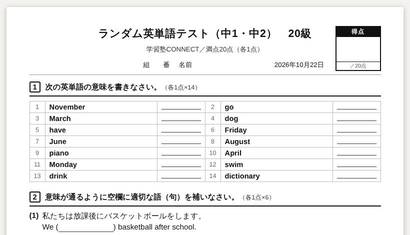
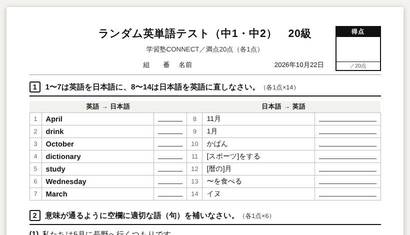
ランダム英単語テスト（中3・中1中2）大問1を英→日・日→英の半分ずつに
1〜7は英語→日本語、8〜14は日本語→英語。解答ページも同じ並びで、日→英の答えは英単語を表示。

Claude-Session: https://claude.ai/code/session_0195v6oVe8CzGfCEmgC7YF48

diff --git a/vocab-test-g12.html b/vocab-test-g12.html
@@ -99,6 +99,8 @@
   table.wordtable td.wnum { width: 22px; text-align: center; color: #666; font-size: 9.5pt; }
   table.wordtable td.wword { width: 32%; font-weight: bold; }
   table.wordtable td.wmeaning { }
+  table.wordtable th.wdir { font-size: 9.5pt; font-weight: bold; background: #F3F1EC; padding: 3px 6px; text-align: center; letter-spacing: .05em; }
+  table.wordtable td.jpm { font-weight: normal; font-size: 10.5pt; }
   .blankline { display: inline-block; min-width: 100%; border-bottom: 1px solid #333; height: 12px; }
 
   /* 大問2: 文章完成 */
@@ -211,23 +213,25 @@
   function buildWordSection(levels, num){
     var pool = poolAcross(DATA.words, levels);
     var picked = pick(pool, num);
-    // pad to even number for 2-column layout
-    if (picked.length % 2 === 1) picked = picked.slice(0, picked.length - 1);
-    var rowsHtml = '';
-    var ansRowsHtml = '';
-    for (var i = 0; i < picked.length; i += 2) {
-      var a = picked[i], b = picked[i+1];
+    // 前半：英語→日本語、後半：日本語→英語（半分ずつ）
+    var half = Math.floor(picked.length / 2);
+    var ej = picked.slice(0, half), je = picked.slice(half, half * 2);
+    var rowsHtml = '<tr><th colspan="3" class="wdir">英語 → 日本語</th><th colspan="3" class="wdir">日本語 → 英語</th></tr>';
+    var ansRowsHtml = rowsHtml;
+    for (var i = 0; i < half; i++) {
+      var a = ej[i], b = je[i];
       rowsHtml += '<tr>' +
         '<td class="wnum">' + (i+1) + '</td><td class="wword en">' + esc(a.w) + '</td><td class="wmeaning"><span class="blankline"></span></td>' +
-        '<td class="wnum">' + (i+2) + '</td><td class="wword en">' + esc(b.w) + '</td><td class="wmeaning"><span class="blankline"></span></td>' +
+        '<td class="wnum">' + (half+i+1) + '</td><td class="wword jpm">' + esc(b.m) + '</td><td class="wmeaning"><span class="blankline"></span></td>' +
         '</tr>';
       ansRowsHtml += '<tr>' +
         '<td class="wnum">' + (i+1) + '</td><td class="wword en">' + esc(a.w) + '</td><td class="wmeaning"><span class="k">' + esc(a.m) + '</span></td>' +
-        '<td class="wnum">' + (i+2) + '</td><td class="wword en">' + esc(b.w) + '</td><td class="wmeaning"><span class="k">' + esc(b.m) + '</span></td>' +
+        '<td class="wnum">' + (half+i+1) + '</td><td class="wword jpm">' + esc(b.m) + '</td><td class="wmeaning en"><span class="k">' + esc(b.w) + '</span></td>' +
         '</tr>';
     }
     return {
-      count: picked.length,
+      count: half * 2,
+      half: half,
       q: '<table class="wordtable"><tbody>' + rowsHtml + '</tbody></table>',
       a: '<table class="wordtable"><tbody>' + ansRowsHtml + '</tbody></table>'
     };
@@ -320,7 +324,7 @@
     html += '<div class="namebox"><span>組　　番</span><span>名前　　　　　　　　　　　</span><span>' + todayStr() + '</span></div>';
 
     html += '<div class="q">';
-    html += '<div class="qh"><span class="num">1</span><span class="inst">次の英単語の意味を書きなさい。<span class="pts">（各1点×' + wordSec.count + '）</span></span></div>';
+    html += '<div class="qh"><span class="num">1</span><span class="inst">1〜' + wordSec.half + 'は英語を日本語に、' + (wordSec.half + 1) + '〜' + wordSec.count + 'は日本語を英語に直しなさい。<span class="pts">（各1点×' + wordSec.count + '）</span></span></div>';
     html += wordSec.q;
     html += '</div>';
 
@@ -337,9 +341,9 @@
     html += '<div class="sub">ランダム英単語テスト（中1・中2）　' + esc(label) + '／配点：大問1（' + wordSec.count + '点）＋大問2（' + sentSec.count + '点）＝計' + total + '点</div>';
 
     html += '<div class="memo"><div class="t">■ 出題範囲メモ</div>';
-    html += 'CONNECT単語帳「' + esc(label) + '」の単語・例文リストからランダム抽出して作成。大問1は単語→意味、大問2は英日・和英の空欄補充（文脈から適切な語を判断）。</div>';
+    html += 'CONNECT単語帳「' + esc(label) + '」の単語・例文リストからランダム抽出して作成。大問1は前半が英語→日本語、後半が日本語→英語、大問2は英日・和英の空欄補充（文脈から適切な語を判断）。</div>';
 
-    html += '<h2>大問1　単語の意味</h2>';
+    html += '<h2>大問1　英語→日本語・日本語→英語</h2>';
     html += wordSec.a;
 
     html += '<h2>大問2　空欄補充</h2>';

diff --git a/vocab-test.html b/vocab-test.html
@@ -99,6 +99,8 @@
   table.wordtable td.wnum { width: 22px; text-align: center; color: #666; font-size: 9.5pt; }
   table.wordtable td.wword { width: 32%; font-weight: bold; }
   table.wordtable td.wmeaning { }
+  table.wordtable th.wdir { font-size: 9.5pt; font-weight: bold; background: #F3F1EC; padding: 3px 6px; text-align: center; letter-spacing: .05em; }
+  table.wordtable td.jpm { font-weight: normal; font-size: 10.5pt; }
   .blankline { display: inline-block; min-width: 100%; border-bottom: 1px solid #333; height: 12px; }
 
   /* 大問2: 文章完成 */
@@ -211,23 +213,25 @@
   function buildWordSection(levels, num){
     var pool = poolAcross(DATA.words, levels);
     var picked = pick(pool, num);
-    // pad to even number for 2-column layout
-    if (picked.length % 2 === 1) picked = picked.slice(0, picked.length - 1);
-    var rowsHtml = '';
-    var ansRowsHtml = '';
-    for (var i = 0; i < picked.length; i += 2) {
-      var a = picked[i], b = picked[i+1];
+    // 前半：英語→日本語、後半：日本語→英語（半分ずつ）
+    var half = Math.floor(picked.length / 2);
+    var ej = picked.slice(0, half), je = picked.slice(half, half * 2);
+    var rowsHtml = '<tr><th colspan="3" class="wdir">英語 → 日本語</th><th colspan="3" class="wdir">日本語 → 英語</th></tr>';
+    var ansRowsHtml = rowsHtml;
+    for (var i = 0; i < half; i++) {
+      var a = ej[i], b = je[i];
       rowsHtml += '<tr>' +
         '<td class="wnum">' + (i+1) + '</td><td class="wword en">' + esc(a.w) + '</td><td class="wmeaning"><span class="blankline"></span></td>' +
-        '<td class="wnum">' + (i+2) + '</td><td class="wword en">' + esc(b.w) + '</td><td class="wmeaning"><span class="blankline"></span></td>' +
+        '<td class="wnum">' + (half+i+1) + '</td><td class="wword jpm">' + esc(b.m) + '</td><td class="wmeaning"><span class="blankline"></span></td>' +
         '</tr>';
       ansRowsHtml += '<tr>' +
         '<td class="wnum">' + (i+1) + '</td><td class="wword en">' + esc(a.w) + '</td><td class="wmeaning"><span class="k">' + esc(a.m) + '</span></td>' +
-        '<td class="wnum">' + (i+2) + '</td><td class="wword en">' + esc(b.w) + '</td><td class="wmeaning"><span class="k">' + esc(b.m) + '</span></td>' +
+        '<td class="wnum">' + (half+i+1) + '</td><td class="wword jpm">' + esc(b.m) + '</td><td class="wmeaning en"><span class="k">' + esc(b.w) + '</span></td>' +
         '</tr>';
     }
     return {
-      count: picked.length,
+      count: half * 2,
+      half: half,
       q: '<table class="wordtable"><tbody>' + rowsHtml + '</tbody></table>',
       a: '<table class="wordtable"><tbody>' + ansRowsHtml + '</tbody></table>'
     };
@@ -320,7 +324,7 @@
     html += '<div class="namebox"><span>組　　番</span><span>名前　　　　　　　　　　　</span><span>' + todayStr() + '</span></div>';
 
     html += '<div class="q">';
-    html += '<div class="qh"><span class="num">1</span><span class="inst">次の英単語の意味を書きなさい。<span class="pts">（各1点×' + wordSec.count + '）</span></span></div>';
+    html += '<div class="qh"><span class="num">1</span><span class="inst">1〜' + wordSec.half + 'は英語を日本語に、' + (wordSec.half + 1) + '〜' + wordSec.count + 'は日本語を英語に直しなさい。<span class="pts">（各1点×' + wordSec.count + '）</span></span></div>';
     html += wordSec.q;
     html += '</div>';
 
@@ -337,9 +341,9 @@
     html += '<div class="sub">ランダム英単語テスト　' + esc(label) + '／配点：大問1（' + wordSec.count + '点）＋大問2（' + sentSec.count + '点）＝計' + total + '点</div>';
 
     html += '<div class="memo"><div class="t">■ 出題範囲メモ</div>';
-    html += 'CONNECT単語帳「' + esc(label) + '」の単語・例文リストからランダム抽出して作成。大問1は単語→意味、大問2は英日・和英の空欄補充（文脈から適切な語を判断）。</div>';
+    html += 'CONNECT単語帳「' + esc(label) + '」の単語・例文リストからランダム抽出して作成。大問1は前半が英語→日本語、後半が日本語→英語、大問2は英日・和英の空欄補充（文脈から適切な語を判断）。</div>';
 
-    html += '<h2>大問1　単語の意味</h2>';
+    html += '<h2>大問1　英語→日本語・日本語→英語</h2>';
     html += wordSec.a;
 
     html += '<h2>大問2　空欄補充</h2>';
